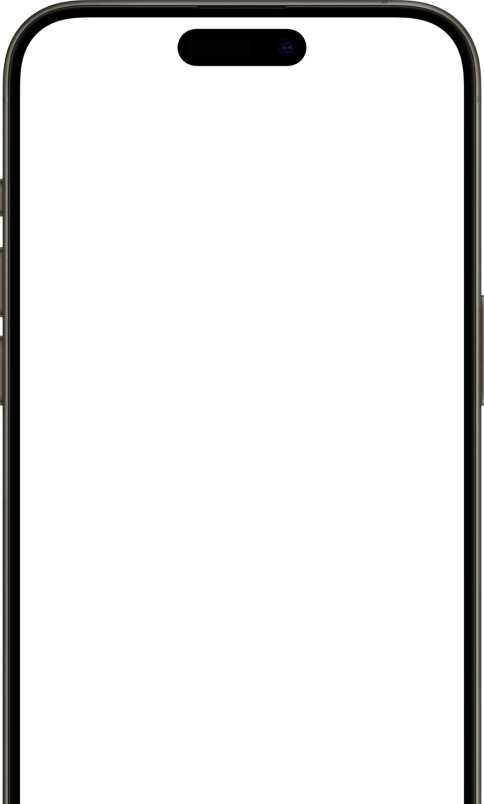
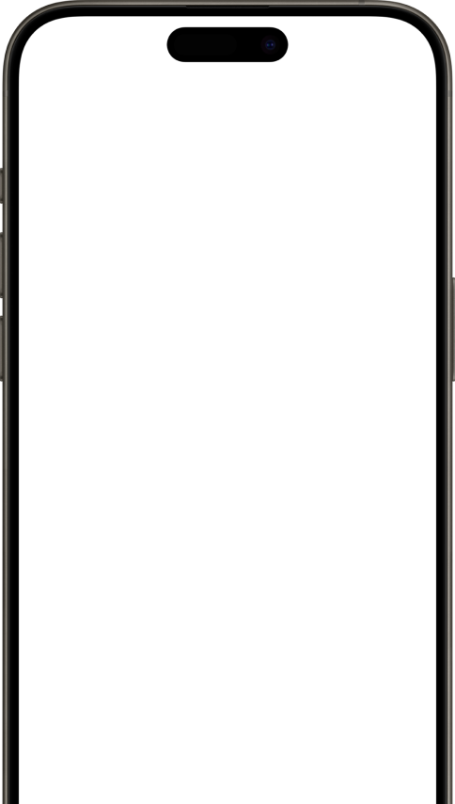
commit

diff --git a/src/components/Carousel/styles.module.scss b/src/components/Carousel/styles.module.scss
@@ -4,7 +4,6 @@
   padding-top: 60px;
   grid-template-columns: 1fr 300px;
   column-gap: 24px;
-  overflow: hidden;
 
   @media (max-width: 1024px) {
   }
@@ -143,14 +142,26 @@
 
 .slider {
   position: relative;
-  border-top-left-radius: 30px;
-  border-top-right-radius: 30px;
-  background-color: #fff;
+  border-top-left-radius: 50px;
+  border-top-right-radius: 50px;
+  //background-color: #fff;
+  overflow: hidden;
+
+  &::after {
+    content: "";
+    display: block;
+    background-color: #fff;
+    position: absolute;
+    left: 12px;
+    top: 0;
+    right: 12px;
+    bottom: 0;
+  }
 
   &::before {
     background-image: url("../../../public/phone.png");
     background-repeat: no-repeat;
-    //content: "";
+    content: "";
     z-index: 100;
     position: absolute;
     display: block;
@@ -171,7 +182,7 @@
 
   img {
     max-width: 100%;
-    width: auto;
+    height: auto;
     display: block;
     border-top-left-radius: 30px;
     border-top-right-radius: 30px;
